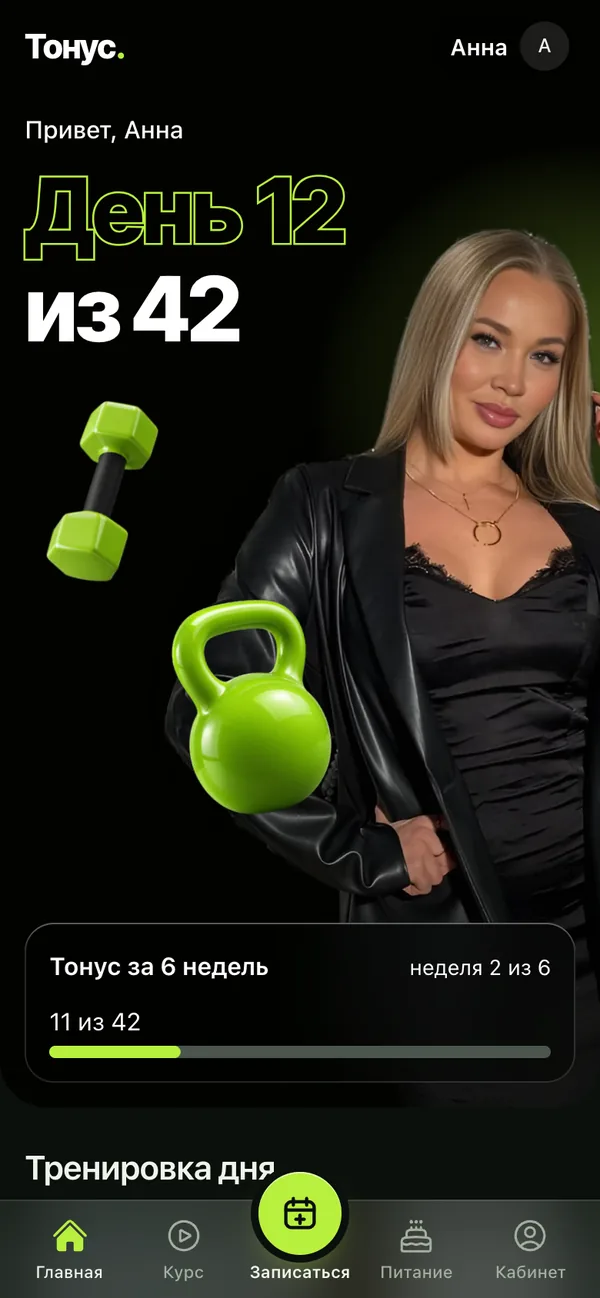
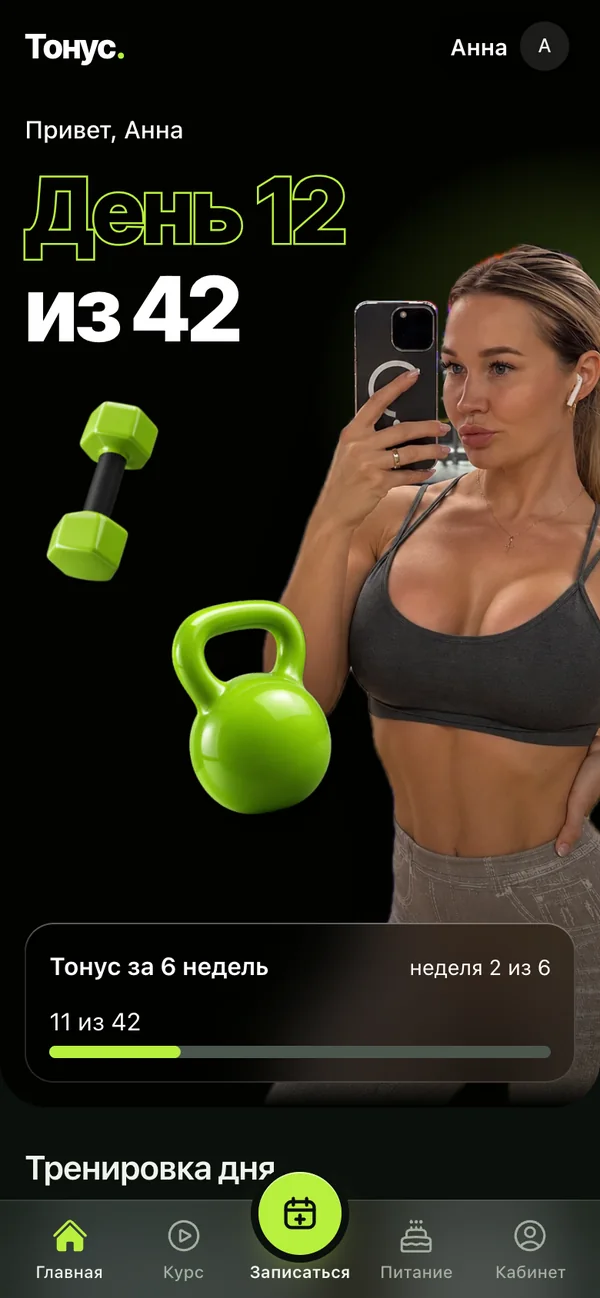
Тонус: скриншоты приложения с новым фото

Changed region(s): [[0.36, 0.1541, 1.0, 0.8629], [0.27, 0.5239, 0.33, 0.5855]]

diff --git a/index.html b/index.html
@@ -334,10 +334,10 @@
 
     <div class="phones" id="phones">
       <div class="phone phone--back">
-        <img src="img/screen-2.webp" alt="Экран питания в приложении" width="390" height="844" loading="lazy">
+        <img src="img/screen-2.webp?v=3" alt="Экран питания в приложении" width="390" height="844" loading="lazy">
       </div>
       <div class="phone phone--front">
-        <img src="img/screen-1.webp" alt="Главный экран приложения: тренировка дня и прогресс" width="390" height="844" loading="lazy">
+        <img src="img/screen-1.webp?v=3" alt="Главный экран приложения: тренировка дня и прогресс" width="390" height="844" loading="lazy">
       </div>
     </div>
   </div>
